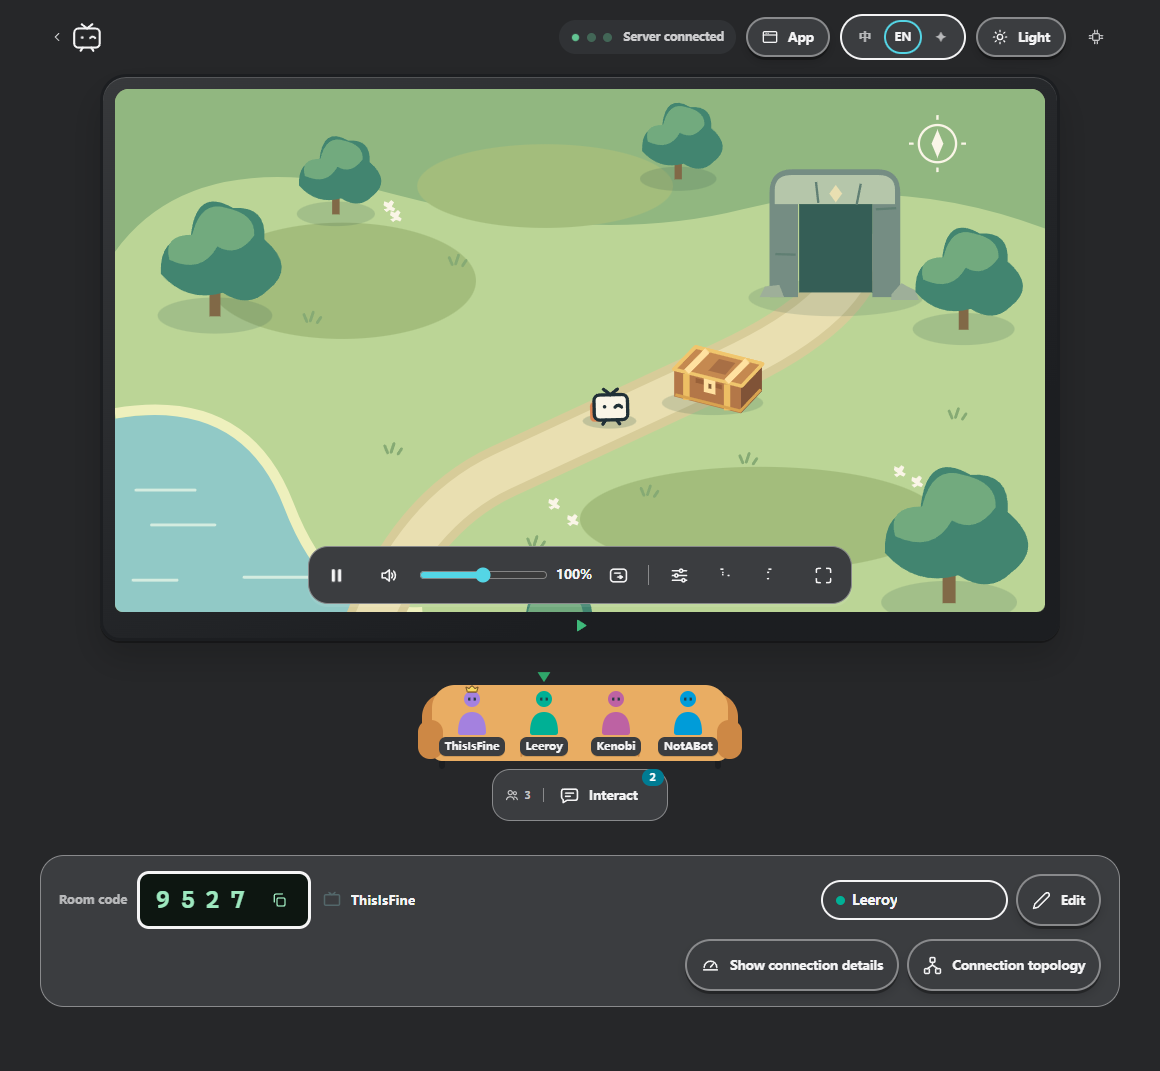
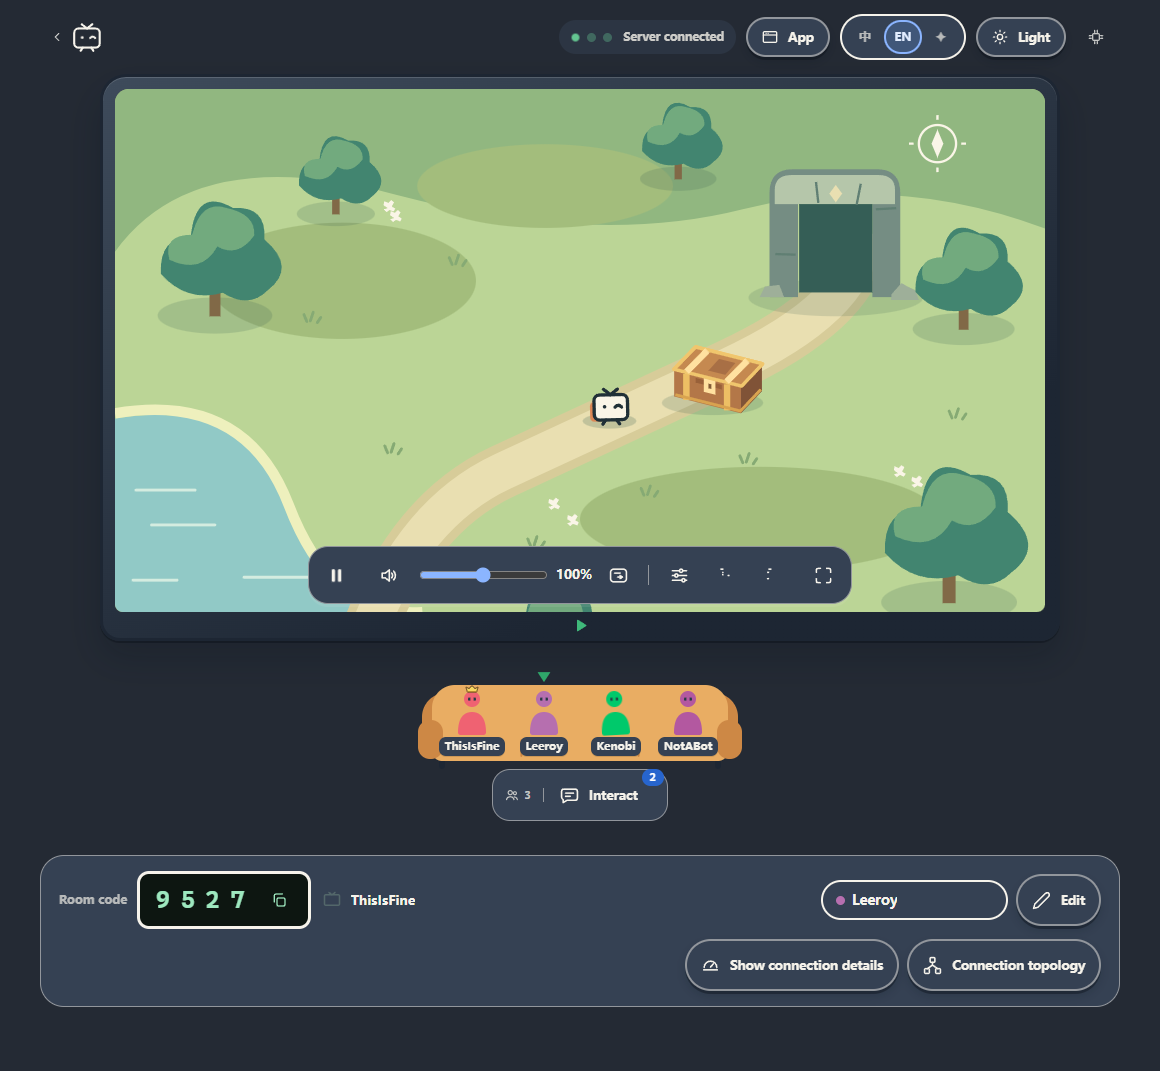
style(ui): adopt the brighter shared palette

diff --git a/src/client/styles.css b/src/client/styles.css
@@ -34,7 +34,8 @@
   --lcd: #1d2b22;
   --lcd-digits: #9de8bf;
   --stage: #17191c;
-  --frame: #2b2d30;
+  --frame: #283445;
+  --frame-highlight: #3e4b5b;
   --radius: 16px;
   --control-radius: 18px;
   --spring: cubic-bezier(.3, 1.45, .45, 1);
@@ -45,7 +46,7 @@
 
 html[data-theme="dark"] {
   color-scheme: dark;
-  --frame: #1c1e21;
+  --frame: #1d2633;
   --stage: #141517;
   --live: #3fb97a;
   --warn: #e8a33d;
@@ -195,7 +196,7 @@ ul { margin: 0; padding: 0; list-style: none; }
 .lr-language-menu button:is(:hover, :focus-visible) { background: var(--wall-2); transform: translateX(2px); }
 .lr-language-menu button:focus-visible { outline-offset: -3px; }
 .lr-language-menu button:active { transform: scale(var(--control-press-scale)); transition-duration: 80ms; }
-.lr-language-menu button[aria-checked="true"] { background: var(--paper); color: var(--ink); box-shadow: inset 0 0 0 2px var(--action); }
+.lr-language-menu button[aria-checked="true"] { background: var(--control-selected); color: var(--control-selected-ink); box-shadow: inset 0 0 0 2px var(--action); }
 .lr-language-mark {
   display: grid;
   place-items: center;
@@ -269,7 +270,7 @@ body.lr-theater-open .lr-top { visibility: hidden; }
   padding: 12px 12px 0;
   border: 3px solid var(--frame);
   border-radius: 26px 26px 20px 20px;
-  background: linear-gradient(155deg, color-mix(in srgb, var(--frame) 88%, #fff), var(--frame) 75%);
+  background: linear-gradient(155deg, var(--frame-highlight), var(--frame) 75%);
   box-shadow: inset 0 1px 0 rgb(255 255 255 / .16), 0 2px 0 var(--surface-shade), 0 18px 35px color-mix(in srgb, var(--surface-shade) 58%, transparent);
   transition: width 240ms ease-out;
 }
@@ -409,7 +410,7 @@ body.lr-theater-open .lr-top { visibility: hidden; }
   place-content: stretch;
   justify-items: stretch;
   overflow: hidden;
-  background: var(--wall);
+  background: linear-gradient(155deg, color-mix(in srgb, var(--wall) 88%, var(--paper)), var(--wall));
   color: var(--ink);
   text-align: left;
 }
@@ -440,9 +441,10 @@ body.lr-theater-open .lr-top { visibility: hidden; }
 .lr-source-picker-mark {
   width: 42px;
   height: 42px;
-  border: 2px solid var(--control-edge);
+  border: 2px solid var(--action);
   border-radius: 50%;
-  background: var(--paper);
+  background: var(--control-selected);
+  color: var(--action-text);
   box-shadow: 0 2px 0 var(--surface-shade);
 }
 .lr-source-picker-copy,
@@ -468,7 +470,8 @@ body.lr-theater-open .lr-top { visibility: hidden; }
   place-items: center;
   border: 2px solid var(--control-edge);
   border-radius: 50%;
-  background: transparent;
+  background: var(--paper);
+  box-shadow: var(--control-shadow);
   color: var(--ink);
   transition: transform 140ms var(--spring), background 120ms ease;
 }
@@ -485,6 +488,7 @@ body.lr-theater-open .lr-top { visibility: hidden; }
   border: 1px solid var(--control-edge);
   border-radius: 16px;
   background: var(--wall-2);
+  box-shadow: inset 0 1px 0 var(--surface-rim), 0 2px 0 var(--surface-shade);
 }
 .lr-source-picker-tabs > span { min-width: 0; }
 .lr-source-picker-tabs button {
@@ -510,8 +514,8 @@ body.lr-theater-open .lr-top { visibility: hidden; }
 }
 .lr-source-picker-tabs button:is(:hover, :focus-visible):not(:disabled):not([aria-selected="true"]) { background: var(--control-hover); }
 .lr-source-picker-tabs button[aria-selected="true"] {
-  background: var(--paper);
-  color: var(--ink);
+  background: var(--control-selected);
+  color: var(--control-selected-ink);
   box-shadow: inset 0 0 0 2px var(--action), 0 2px 0 var(--surface-shade);
 }
 .lr-source-picker-body {
@@ -560,7 +564,7 @@ body.lr-theater-open .lr-top { visibility: hidden; }
   box-shadow: inset 0 0 0 1px var(--action), var(--control-shadow);
 }
 .lr-source-option:active:not(:disabled) { transform: scale(var(--control-press-scale)); box-shadow: none; transition-duration: 80ms; }
-.lr-source-option[aria-current="true"] { border-color: var(--action); background: color-mix(in srgb, var(--action) 10%, var(--paper)); }
+.lr-source-option[aria-current="true"] { border-color: var(--action); background: var(--control-selected); }
 .lr-source-option:not(.is-browser) {
   display: grid;
   align-items: stretch;
@@ -1006,7 +1010,7 @@ body.lr-theater-open .lr-top { visibility: hidden; }
 }
 :is(.lr-chip, .lr-tile):is(:hover, :focus-visible):not(:disabled):not([aria-disabled="true"]):where(:not(.is-selected)) { background: var(--control-hover); transform: translateY(-2px); }
 :is(.lr-chip, .lr-tile):active:not(:disabled):not([aria-disabled="true"]) { transform: scale(var(--control-press-scale)); box-shadow: none; transition-duration: 80ms; }
-:is(.lr-chip, .lr-tile).is-selected { background: var(--paper); color: var(--ink); border-color: var(--action); box-shadow: inset 0 0 0 1px var(--action), var(--control-shadow); }
+:is(.lr-chip, .lr-tile).is-selected { background: var(--control-selected); color: var(--control-selected-ink); border-color: var(--action); box-shadow: inset 0 0 0 1px var(--action), var(--control-shadow); }
 :is(.lr-chip, .lr-tile).is-selected:active:not(:disabled) { box-shadow: none; }
 .lr-chip .lr-cap { font-family: var(--font); letter-spacing: 0; }
 .lr-chip small { margin-left: 5px; font-size: 10.5px; opacity: .6; }
@@ -1045,7 +1049,7 @@ body.lr-theater-open .lr-top { visibility: hidden; }
   position: absolute;
   top: 4px; bottom: 4px; left: 4px;
   border-radius: 999px;
-  background: var(--paper);
+  background: var(--control-selected);
   box-shadow: inset 0 0 0 2px var(--action);
   width: calc((100% - 8px) / var(--lr-segments));
   transform: translateX(calc(var(--lr-selected-index) * 100%));
@@ -1070,7 +1074,7 @@ body.lr-theater-open .lr-top { visibility: hidden; }
   color: color-mix(in srgb, var(--ink) 68%, var(--paper));
   transition: color 180ms ease, transform 180ms var(--spring);
 }
-.lr-toggle button.is-selected { color: var(--ink); }
+.lr-toggle button.is-selected { color: var(--control-selected-ink); }
 .lr-toggle button:active { transform: scale(var(--control-press-scale)); transition-duration: 80ms; }
 /* The wrapper owns each half in both language modes. */
 .lr-toggle > .lr-comic-tip-wrap { flex: 1; justify-content: center; }
@@ -1121,6 +1125,7 @@ body.lr-theater-open .lr-top { visibility: hidden; }
   box-shadow: var(--control-shadow);
 }
 .lr-tiles .lr-tile small { max-width: 100%; font-family: var(--mono); font-size: 11px; letter-spacing: .02em; color: var(--muted); text-wrap: balance; overflow-wrap: normal; }
+.lr-tiles .lr-tile.is-selected small { color: var(--control-selected-ink); }
 
 /* text inputs */
 .lr-input {

diff --git a/site/styles.css b/site/styles.css
@@ -20,7 +20,7 @@
   --spring: cubic-bezier(.3, 1.45, .45, 1);
 }
 @media (prefers-color-scheme: dark) {
-  :root:not([data-theme="light"]) { color-scheme: dark; --wall: var(--piik-dark-wall); --paper: var(--piik-dark-paper); --ink: var(--piik-dark-ink); --wall-2: var(--piik-dark-wall-2); --control-hover: var(--piik-dark-hover); --action: var(--piik-dark-action); --action-text: var(--action); --orange: #f28d66; --soft-orange: #3d342c; }
+  :root:not([data-theme="light"]) { color-scheme: dark; --wall: var(--piik-dark-wall); --paper: var(--piik-dark-paper); --ink: var(--piik-dark-ink); --wall-2: var(--piik-dark-wall-2); --control-hover: var(--piik-dark-hover); --action: var(--piik-dark-action); --action-text: var(--piik-dark-action-text); --control-selected: var(--piik-dark-selected); --control-selected-ink: var(--piik-dark-selected-ink); --orange: #f28d66; --soft-orange: #3d342c; }
 }
 :root[data-theme="dark"] { color-scheme: dark; --orange: #f28d66; --soft-orange: #3d342c; }
 * { box-sizing: border-box; }
@@ -123,13 +123,13 @@ h3 { font-size: 21px; font-weight: 700; letter-spacing: -.03em; line-height: 1.3
 .download-card h3 { font-size: 25px; }
 .download-card > p { margin-top: 8px; color: var(--muted); font-size: 12px; line-height: 1.8; }
 .download-architecture { position: relative; display: inline-grid; grid-auto-flow: column; grid-auto-columns: 1fr; min-width: 0; max-width: 100%; margin: 16px 0 20px; padding: 4px; border: 1px solid var(--line); border-radius: 24px; background: var(--wall); }
-.download-architecture:not(:disabled)::before { content: ""; position: absolute; inset: 4px auto 4px 4px; box-sizing: border-box; width: calc((100% - 8px) / 2); border: 1px solid var(--line); border-radius: 18px; background: var(--paper); box-shadow: 0 2px 0 color-mix(in srgb, var(--line) 40%, transparent); transition: transform 260ms var(--spring); pointer-events: none; }
+.download-architecture:not(:disabled)::before { content: ""; position: absolute; inset: 4px auto 4px 4px; box-sizing: border-box; width: calc((100% - 8px) / 2); border: 1px solid var(--action); border-radius: 18px; background: var(--control-selected); box-shadow: 0 2px 0 color-mix(in srgb, var(--line) 40%, transparent); transition: transform 260ms var(--spring); pointer-events: none; }
 .download-architecture:has(> label:nth-of-type(2) input:checked)::before { transform: translateX(100%); }
 .download-architecture label { position: relative; min-width: 0; }
 .download-architecture input { position: absolute; inset: 0; width: 100%; height: 100%; margin: 0; opacity: 0; cursor: pointer; }
 .download-architecture input:disabled { cursor: default; }
 .download-architecture label > span { position: relative; display: flex; align-items: center; justify-content: center; height: 100%; min-height: 36px; padding: 6px 12px; border: 1px solid transparent; border-radius: 18px; font-size: 12px; font-weight: 600; pointer-events: none; transition: color 140ms ease, transform 180ms var(--spring); }
-.download-architecture input:checked + span { color: var(--action-text); }
+.download-architecture input:checked + span { color: var(--control-selected-ink); }
 .download-architecture input:enabled:is(:hover, :focus-visible) + span { color: var(--action-text); transform: translateY(-1px); }
 .download-architecture input:enabled:active + span { transform: scale(var(--control-press-scale)); transition-duration: 80ms; }
 .download-architecture input:focus-visible + span { outline: 3px solid var(--action); outline-offset: 3px; }

diff --git a/src/client/ui/palette.css b/src/client/ui/palette.css
@@ -1,29 +1,33 @@
 /* Shared surfaces for the App, website and documentation. Illustrations and
    semantic status colours keep their own roles. Theme selection stays local. */
 :root {
-  --wall: #ebebeb;
-  --wall-2: #dedfe0;
-  --paper: #fff;
-  --ink: #303236;
+  --wall: #f3f5f8;
+  --wall-2: #e5eaf2;
+  --paper: #fffefb;
+  --ink: #29374a;
   --muted: color-mix(in srgb, var(--ink) 75%, var(--paper));
   --line: color-mix(in srgb, var(--ink) 20%, var(--paper));
-  --action: #008da5;
-  --action-deep: #007c93;
-  --action-text: var(--action-deep);
-  --control-hover: color-mix(in srgb, var(--action) 7%, var(--paper));
-  --control-edge: color-mix(in srgb, var(--ink) 58%, var(--paper));
-  --surface-rim: rgb(255 255 255 / .9);
-  --surface-shade: rgb(28 30 32 / .16);
-  --surface-glint: rgb(255 255 255 / .4);
-  --surface-glaze: linear-gradient(165deg, var(--surface-glint), transparent 65%, rgb(0 0 0 / .015));
+  --action: #3478e5;
+  --action-deep: #2765ce;
+  --action-text: #2055b2;
+  --control-hover: #eef3ff;
+  --control-selected: #e5efff;
+  --control-selected-ink: #214c9b;
+  --control-edge: color-mix(in srgb, var(--ink) 57%, var(--paper));
+  --surface-rim: rgb(255 255 255 / .95);
+  --surface-shade: rgb(36 53 78 / .18);
+  --surface-glaze: linear-gradient(165deg, rgb(255 255 255 / .6), transparent 65%, rgb(51 89 147 / .025));
   --control-shadow: 0 3px 0 var(--surface-shade), 0 5px 10px color-mix(in srgb, var(--surface-shade) 45%, transparent);
   --panel-shadow: inset 0 1px 0 var(--surface-rim), 0 3px 0 var(--surface-shade), 0 16px 36px color-mix(in srgb, var(--surface-shade) 55%, transparent);
-  --piik-dark-wall: #262729;
-  --piik-dark-wall-2: #303235;
-  --piik-dark-paper: #3b3d40;
-  --piik-dark-ink: #f4f4f5;
-  --piik-dark-action: #54d5e5;
-  --piik-dark-hover: color-mix(in srgb, var(--piik-dark-action) 7%, var(--piik-dark-paper));
+  --piik-dark-wall: #242a34;
+  --piik-dark-wall-2: #2c3543;
+  --piik-dark-paper: #354153;
+  --piik-dark-ink: #f6f3eb;
+  --piik-dark-action: #8bb5ff;
+  --piik-dark-action-text: #a9c8ff;
+  --piik-dark-hover: #414f67;
+  --piik-dark-selected: #405779;
+  --piik-dark-selected-ink: #e2edff;
 }
 :root[data-theme="dark"], :root.dark {
   --wall: var(--piik-dark-wall);
@@ -31,10 +35,12 @@
   --paper: var(--piik-dark-paper);
   --ink: var(--piik-dark-ink);
   --action: var(--piik-dark-action);
-  --action-text: var(--action);
+  --action-text: var(--piik-dark-action-text);
   --control-hover: var(--piik-dark-hover);
-  --control-edge: color-mix(in srgb, var(--ink) 42%, var(--paper));
-  --surface-rim: rgb(255 255 255 / .09);
-  --surface-shade: rgb(0 0 0 / .32);
-  --surface-glint: rgb(255 255 255 / .035);
+  --control-selected: var(--piik-dark-selected);
+  --control-selected-ink: var(--piik-dark-selected-ink);
+  --control-edge: color-mix(in srgb, var(--ink) 48%, var(--paper));
+  --surface-rim: rgb(222 234 255 / .12);
+  --surface-shade: rgb(6 12 22 / .38);
+  --surface-glaze: linear-gradient(165deg, rgb(224 237 255 / .06), transparent 65%, rgb(0 0 0 / .035));
 }

diff --git a/src/client/components/living/room-interactions.css b/src/client/components/living/room-interactions.css
@@ -14,7 +14,7 @@
 .lr-interaction-panel .lr-interaction-people .lr-pawn-name { min-width: 0; max-width: 100%; margin: 0; padding: 0; font-size: 12px; font-weight: 600; line-height: 1.4; background: none; box-shadow: none; }
 .lr-interaction-panel .lr-interaction-people .lr-pawn:is(:hover, :focus-visible) { background: var(--control-hover); }
 .lr-interaction-people .lr-pawn:focus-visible { outline-offset: -3px; }
-.lr-interaction-panel .lr-interaction-people .lr-pawn[aria-pressed="true"] { background: color-mix(in srgb, var(--action) 12%, var(--paper)); box-shadow: inset 0 0 0 1px var(--action); }
+.lr-interaction-panel .lr-interaction-people .lr-pawn[aria-pressed="true"] { background: var(--control-selected); box-shadow: inset 0 0 0 1px var(--action); }
 .lr-interaction-picker { flex: 0 1 auto; max-height: calc(100% - 60px); padding-block: 4px 6px; border-top: 1px solid var(--wall-2); }
 .lr-interaction-picker[hidden] { display: none; }
 .lr-interaction-picker:not([hidden]) { transform-origin: center bottom; animation: lr-floating-enter 150ms var(--spring); }
@@ -63,7 +63,7 @@ button.lr-chat-avatar:focus-visible { outline-offset: -3px; }
 .lr-chat-tools { display: flex; align-items: center; gap: 2px; padding-top: 4px; color: var(--muted); font-size: 11px; line-height: 1.5; }
 .lr-chat-tools .lr-btn { flex: none; min-width: 36px; height: 36px; padding: 0 8px; gap: 6px; border-color: transparent; background: transparent; box-shadow: none; color: var(--muted); }
 .lr-chat-tools .lr-btn:is(:hover, :focus-visible) { background: var(--control-hover); color: var(--ink); }
-.lr-chat-tools .lr-btn.is-on { background: color-mix(in srgb, var(--action) 12%, var(--paper)); color: var(--action-text); }
+.lr-chat-tools .lr-btn.is-on { background: var(--control-selected); color: var(--control-selected-ink); }
 .lr-chat-tools .lr-chat-count { padding: 0 4px; }
 .lr-chat-compose[hidden] { display: none; }
 .lr-chat-settings { flex: 1; padding-block: 18px; }

diff --git a/src/client/components/living/participant-color.ts b/src/client/components/living/participant-color.ts
@@ -1,14 +1,15 @@
 import { identityHash } from "../../lib/identity-hash";
 
-// Identity alone owns the colour across the couch, chat and topology. Cool hues
-// avoid the upholstery/crown; perceptual lightness keeps both themes readable.
+// Identity alone owns the colour across the couch, chat and topology. Leave the
+// upholstery/crown's amber range out; vary lightness and chroma independently.
 export function participantColor(identity: string): string {
   // Avalanche the decorative hash so similar IDs do not cluster in one hue.
   let seed = identityHash(identity);
   seed = Math.imul(seed ^ (seed >>> 16), 0x85ebca6b);
   seed = Math.imul(seed ^ (seed >>> 13), 0xc2b2ae35);
   seed = (seed ^ (seed >>> 16)) >>> 0;
-  const hue = 145 + seed / 0xffffffff * 195;
-  const lightness = 0.62 + (seed & 255) / 255 * 0.06;
-  return `oklch(${lightness.toFixed(4)} 0.14 ${hue.toFixed(4)})`;
+  const hue = (140 + (seed & 0xffff) / 0xffff * 250) % 360;
+  const lightness = 0.59 + ((seed >>> 16) & 255) / 255 * 0.18;
+  const chroma = 0.11 + (seed >>> 24) / 255 * 0.08;
+  return `oklch(${lightness.toFixed(4)} ${chroma.toFixed(4)} ${hue.toFixed(4)})`;
 }

diff --git a/src/client/components/living/button.css b/src/client/components/living/button.css
@@ -25,7 +25,7 @@ button { -webkit-user-select: none; user-select: none; -webkit-touch-callout: no
 .lr-btn.is-primary:is(:hover, :focus-visible):not(:disabled):not([aria-disabled="true"]) { --primary-fill: color-mix(in srgb, var(--action-deep) 88%, #000); }
 .lr-btn.is-danger { border-color: var(--danger); color: color-mix(in srgb, var(--danger) 70%, var(--ink)); }
 .lr-btn.is-danger:is(:hover, :focus-visible):not(:disabled):not([aria-disabled="true"]) { background: color-mix(in srgb, var(--danger) 10%, var(--paper)); }
-.lr-btn.is-on { border-color: var(--action); background: var(--paper); color: var(--ink); box-shadow: inset 0 0 0 1px var(--action), var(--control-shadow); }
+.lr-btn.is-on { border-color: var(--action); background: var(--control-selected); color: var(--control-selected-ink); box-shadow: inset 0 0 0 1px var(--action), var(--control-shadow); }
 .lr-btn .lr-cap { margin-left: 2px; font-size: 12.5px; font-weight: 600; }
 .lr-theme-toggle { min-width: 40px; height: 40px; }
 @media (prefers-reduced-motion: reduce) {

diff --git a/src/client/components/living/language-control.css b/src/client/components/living/language-control.css
@@ -18,7 +18,7 @@
   top: 4px; bottom: 4px; left: 4px;
   width: calc((100% - 8px) / var(--lang-count));
   border-radius: 999px;
-  background: var(--paper);
+  background: var(--control-selected);
   box-shadow: inset 0 0 0 2px var(--action);
   transition: transform 260ms var(--spring);
   pointer-events: none;
@@ -45,7 +45,7 @@
 .lr-lang > button:is(:hover, :focus-visible) { opacity: 1; transform: translateY(-1px); }
 .lr-lang > button:is(:hover, :focus-visible):not(.is-selected) { background: var(--wall-2); }
 .lr-lang > button:active { transform: scale(var(--control-press-scale)); transition-duration: 80ms; }
-.lr-lang > .is-selected { color: var(--ink); opacity: 1; }
+.lr-lang > .is-selected { color: var(--control-selected-ink); opacity: 1; }
 @media (prefers-reduced-motion: reduce) {
   .lr-lang::before, .lr-lang > button { transition: none; }
   .lr-lang > button { transform: none !important; }

diff --git a/docs/standards/visual-language.md b/docs/standards/visual-language.md
@@ -324,11 +324,13 @@ changing the badge does not restyle the UI, wordmark or illustrations.
 
 These are **identity/object colours**, not status. A green pawn remains green
 in a failed scene; a successful scene does not turn other people green. Real
-roster identities use the shared UUID colour function to generate a stable
-colour in a continuous cool hue range, not a fixed list or the illustrative
-"you versus others" palette. The same identity keeps its colour across surfaces,
-themes and roster changes; colour alone does not identify a person. Actor positions
-and identities remain stable from the first panel to the result.
+roster identities use the shared UUID colour function to generate stable hues,
+lightness and chroma outside the upholstery/crown's amber range, not a fixed
+list or the illustrative "you versus others" palette. The same identity keeps
+its colour across surfaces, themes and roster changes, without colour-assignment
+messages. Similar colours remain possible; names and self/Host marks identify
+people. Actor positions and identities remain stable from the first panel to
+the result.
 
 Room pawns, tooltip/status comics and introduction participants use
 a round head, half-oval body and two restrained eyes. Reuse the shared
@@ -541,13 +543,13 @@ explained clearly in two; do not invent stages to fill extra panels.
 
 ## Semantic Colour And Shape
 
-App, website and documentation use the neutral surface palette in
-`src/client/ui/palette.css`: light grey canvas, white paper, charcoal dark
+App, website and documentation use the shared surface palette in
+`src/client/ui/palette.css`: a fresh pale canvas, warm white paper, blue-grey dark
 surfaces and clear text contrast. Source selection follows the same theme.
 Reserve green for cast identity and semantic state, not the general canvas or
-hover fill. Cyan marks actions, focus and selected controls; use the deeper
+hover fill. Blue marks actions, focus and selected controls; use the deeper
 variant for white-on-filled actions and readable light-theme links. Selected
-choices keep a neutral face with an inset outline. Subtle surface highlights
+choices use the shared tinted face and inset outline. Subtle surface highlights
 and shadows add depth without changing control geometry or press feedback.
 Gold upholstery, illustration and badge artwork retain their own palettes.
 
@@ -562,7 +564,7 @@ or animation rules inside an individual scene.
 | Confirmed completion or delivered media | Green `--live` / `live` | Neutral before, green result; check or completed object |
 | Still usable with a limitation, unavailable optional capability, or intentional media pause | Amber `--warn` / `warn` | Neutral before, amber result; limit, pause, lock or unavailable mark on the affected part |
 | Confirmed failed or blocked action | Red `--danger` / `bad` | Neutral before, red result; cross, broken path or other explicit failure mark |
-| Work in progress or awaiting an action/frame | Cyan `--action` / `busy` | Neutral before, cyan current/result panel; connection, progress or play symbol |
+| Work in progress or awaiting an action/frame | Blue `--action` / `busy` | Neutral before, blue current/result panel; connection, progress or play symbol |
 
 Recovery retains amber because service is interrupted while work continues.
 Waiting for a Host and unknown observations remain neutral. A control's
